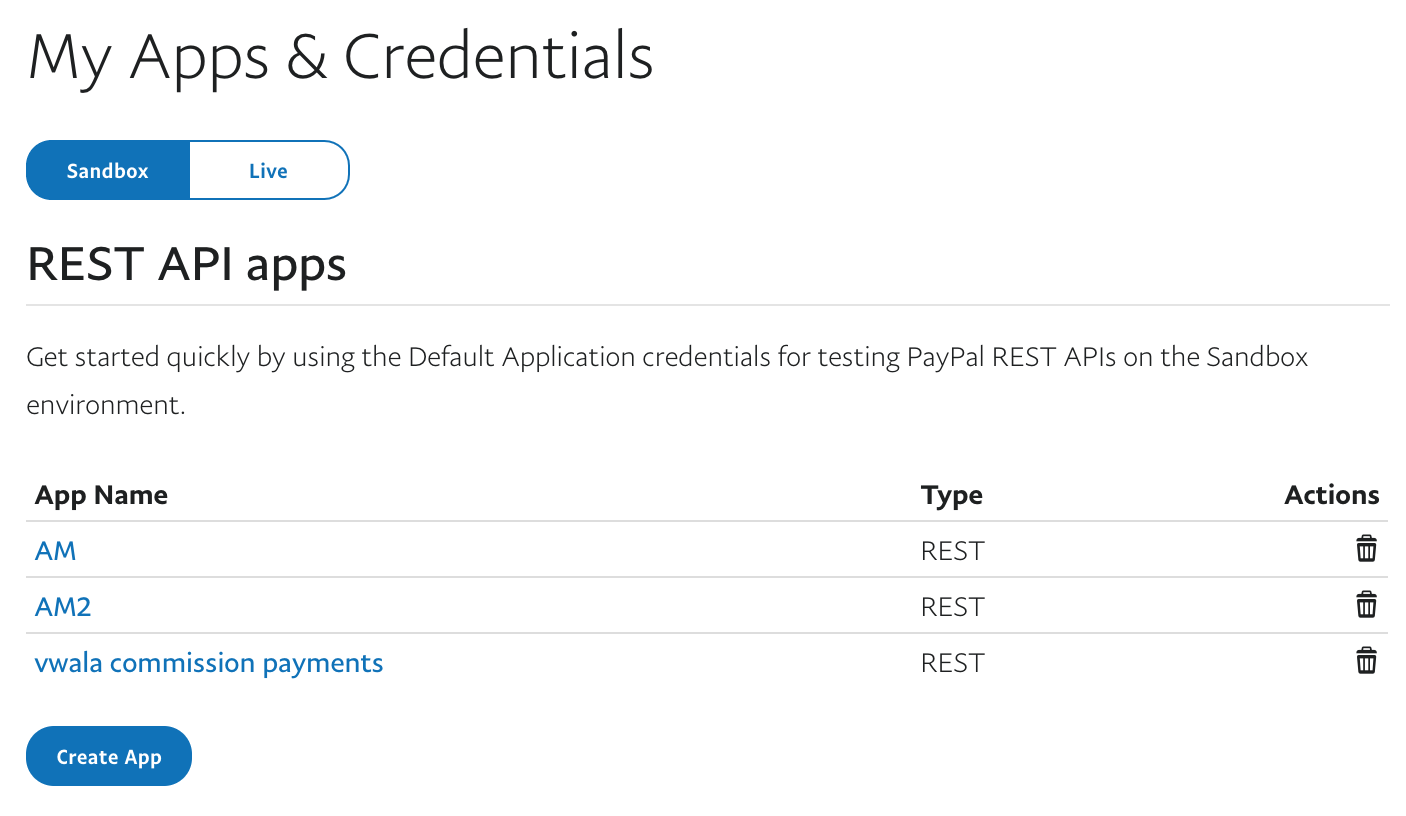
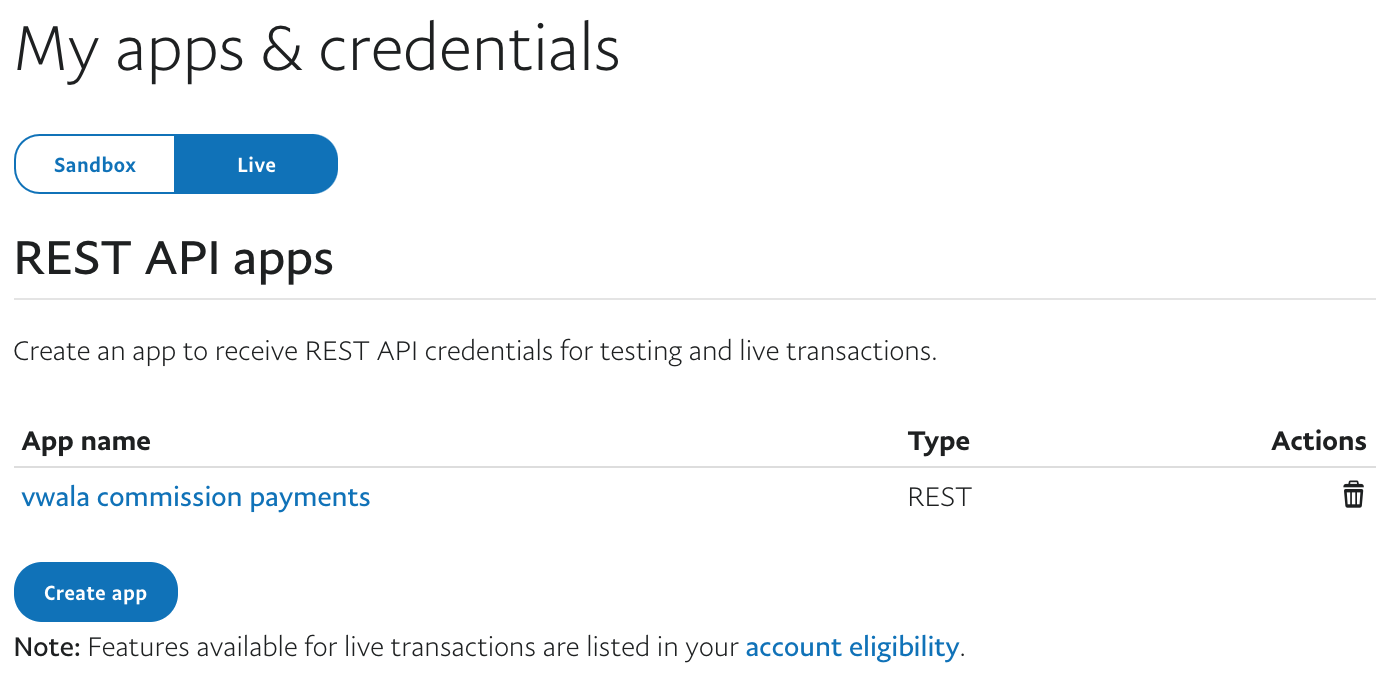
S can pay multiple As by credit and codes are now kept in sync automatically. Credit payments can be cancelled. Twitch support. More XX support. BP messaging now consistent.

diff --git a/src/templates/markdown/post.js b/src/templates/markdown/post.js
@@ -42,9 +42,9 @@ class Post extends React.Component {
             sideBarLayout.justification = `justify-between`
         } else if (sidebar || toc) {
             // Layout #2: navigation left only, either TOC or sidebar
-            sideBarLayout.leftSidebar = sidebar ?
-                <SidebarNav location={location} sidebar={sidebar} /> :
-                <div className="nr3 sticky top-25"><TOC listClasses="lefty" className="mt5 mb5 mt10-ns mb0-ns" showHeading={false} /></div>
+            sideBarLayout.leftSidebar = sidebar
+                ? <SidebarNav location={location} sidebar={sidebar} />
+                : <div className="nr3 sticky top-25"><TOC listClasses="lefty" className="mt5 mb5 mt10-ns mb0-ns" showHeading={false} /></div>
             sideBarLayout.justification = `justify-start`
         } else {
             // Layout #3: no sidebar navigation

diff --git a/gatsby-config.js b/gatsby-config.js
@@ -41,6 +41,8 @@ const plugins = [
                     resolve: `gatsby-remark-images`,
                     options: {
                         maxWidth: 590,
+                        // loading: 'eager',
+                        // tracedSVG: true
                     },
                 },
                 `gatsby-remark-autolink-headers`,

diff --git a/gatsby/createPages.js b/gatsby/createPages.js
@@ -29,7 +29,7 @@ module.exports = async ({ graphql, actions }) => {
         fromPath: `/releases`,
         isPermanent: true,
         redirectInBrowser: true,
-        toPath: `/releases/2020-05-30/`,
+        toPath: `/releases/2020-09-30/`,
     })
 
     createRedirect({

diff --git a/src/styles/post-content.css b/src/styles/post-content.css
@@ -191,6 +191,7 @@
 
 .post-content img,
 .post-content video {
+    /* display: none; */
     display: block;
     margin: 1.5em auto;
     max-width: 100%;

diff --git a/src/constants.js b/src/constants.js
@@ -1,2 +1,2 @@
 
-export const CurrentRelease = "2020-05-30"
+export const CurrentRelease = "2020-09-30"

diff --git a/content/merchant/paying-commission.md b/content/merchant/paying-commission.md
@@ -185,8 +185,9 @@ Limitations:
 
 To pay using this payment method:
 
-- Click `pay by commission` to open the payment form.
-- Choose the `store credit` option in the `who to pay` field. Note: This option will only be visible if you have selected 1 influencer before opening the payment form.
+- Go to the influencer page and sort the table by the commission payable column (from most to least). This will allow you to see which influencers have unpaid commission that is payable at this time (Note: To learn more about payment rules and how to customise them, see the payment rules section below). 
+- Then select 1 influencer who you wish to pay commission in the table. Then in the `actions` menu above the table, click `pay by commission` to open the payment form. If you select more than 1 influencer, the payment form will not give the option to use store credit.  
+- Choose the `store credit` option in the `how to pay` field (Note: This option will only be visible if you have selected 1 influencer before opening the payment form).
 - Click `next` to preview the commission amount that is to be paid.
 - Shopify does not allow 3rd party applications to automatically create gift cards on your store's behalf. Therefore, you'll need to create a gift card or single use fixed amount discount code manually in your Shopify admin console for the displayed commission amount. Once you've created the gift card/discount code, you must copy and paste it into the payment form. Then click `pay`.
 - We will then mark the affected orders as 'commission paid' and will send a notification to the influencer with their gift card / discount code information.
@@ -336,7 +337,7 @@ If your PayPal account is not a business account, you must:
 #### Step 2: Enable `PayPal PayOuts`
 
 - Go to https://developer.paypal.com/developer/accountStatus/
-- Ensure that `PayOuts` is enabled (a green tick in both the sandbox and live columns of the table below). 
+- Ensure that `PayOuts` is enabled (a green tick in both the sandbox and live columns of the table below). It make take 24 hours for this change to take effect. 
 ![](/images/merchant/pp-enable-payouts.png)
 - Non-US customers will need to contact PayPal support by [phone](https://www.paypal.com/au/smarthelp/contact-us) or [email](https://www.paypal-support.com/s/contactsupport) to activate the `PayOuts` feature. This process usually takes 24 hours. If you choose to contact PayPal via email, use the following screenshot as an example of how to complete the form.
 ![](/images/merchant/pp-contact-support.png)
@@ -344,7 +345,7 @@ If your PayPal account is not a business account, you must:
 *Sample text*
 > I run an online business. We have a team of influencer marketers who promote our products in exchange for commission. Please enable the PayPal payouts technology for my account. It is essential to simplifying the bulk payment of our influencers. Thankyou
 
-#### Step 3: Create a PayPal REST API app
+#### Step 3: Create a `live` PayPal REST API app
 
 **Go to PayPal**
 
@@ -357,7 +358,7 @@ If your PayPal account is not a business account, you must:
    - Name: `vwala commission payments` (optional)
    - Email: *Your PayPal business account's email address*
    - Save the form
-- Open the app that you have just created. You should now see the applications' `client id` and `secret`. You will need to click `show` to reveal the secret. 
+- Open the app that you have just created (make sure you are using the **live version**). You should now see the applications' `client id` and `secret`. You will need to click `show` to reveal the secret. 
    - Copy and paste the `client id` and `secret` fields into the `vwa.la > my account > store settings > payments` form (instructions below).
    ![](/images/merchant/pp-live-credentials.png)
    - Ensure that the following options are enabled for the application.
@@ -368,8 +369,8 @@ If your PayPal account is not a business account, you must:
 
 - Go to `my account > store settings > payments`.
 - In the `PayPal setup` section, choose `advanced`. This will prompt you to copy & paste your PayPal `client Id` and `secret` from the previous step.
+- Click `save` to save your changes.
 - To verify that your setup is correct, click `test`
-- Click `save`.
 ![](/images/merchant/pp-setup.png)   
 
 

diff --git a/content/releases/2020-09-30.md b/content/releases/2020-09-30.md
@@ -1,0 +1,34 @@
+---
+title: "Store credit commission upgrade"
+meta_title: "2020-09-30"
+meta_description: ""
+keywords:
+   - releases
+   - help
+sidebar: "releases"
+---
+
+Hi all, in this release:
+
+## For merchants
+
+- We have upgraded our store credit commission payment feature. You can now pay commission by store credit to more than 1 Influencer at a time and; we automatically create single use, fixed amount discounts for them to use in your checkout. Previously this had to be done manually per Influencer.
+- We have added Twitch support
+- You can now customise the terminology used to describe your marketing team. Influencers, ambassadors or affiliates
+- Influencers can now disabled email notifications
+- We've made more upgrades to our new promotion policy feature
+- Exporting your Influencers, now includes their social media account info
+- Merchants can now manage their Influencer's details (name, email, password, social media accounts)
+- Various UX enhancements to the sign up page
+- Removed support for IE10
+- We now consistently display the billing plan comparison matrix and FAQ info on all billing plan pages
+- We now automatically clean up stale Influencers acccounts (no login, no leads, no orders and older than 180 days)
+- We now tell Influencers if their email address is bouncing.
+
+## For influencers
+
+- Major improvements to the join store flow. You no longer need to log back in to see your store changes.
+- Major improvements to the delete account / delete store flow
+
+
+
